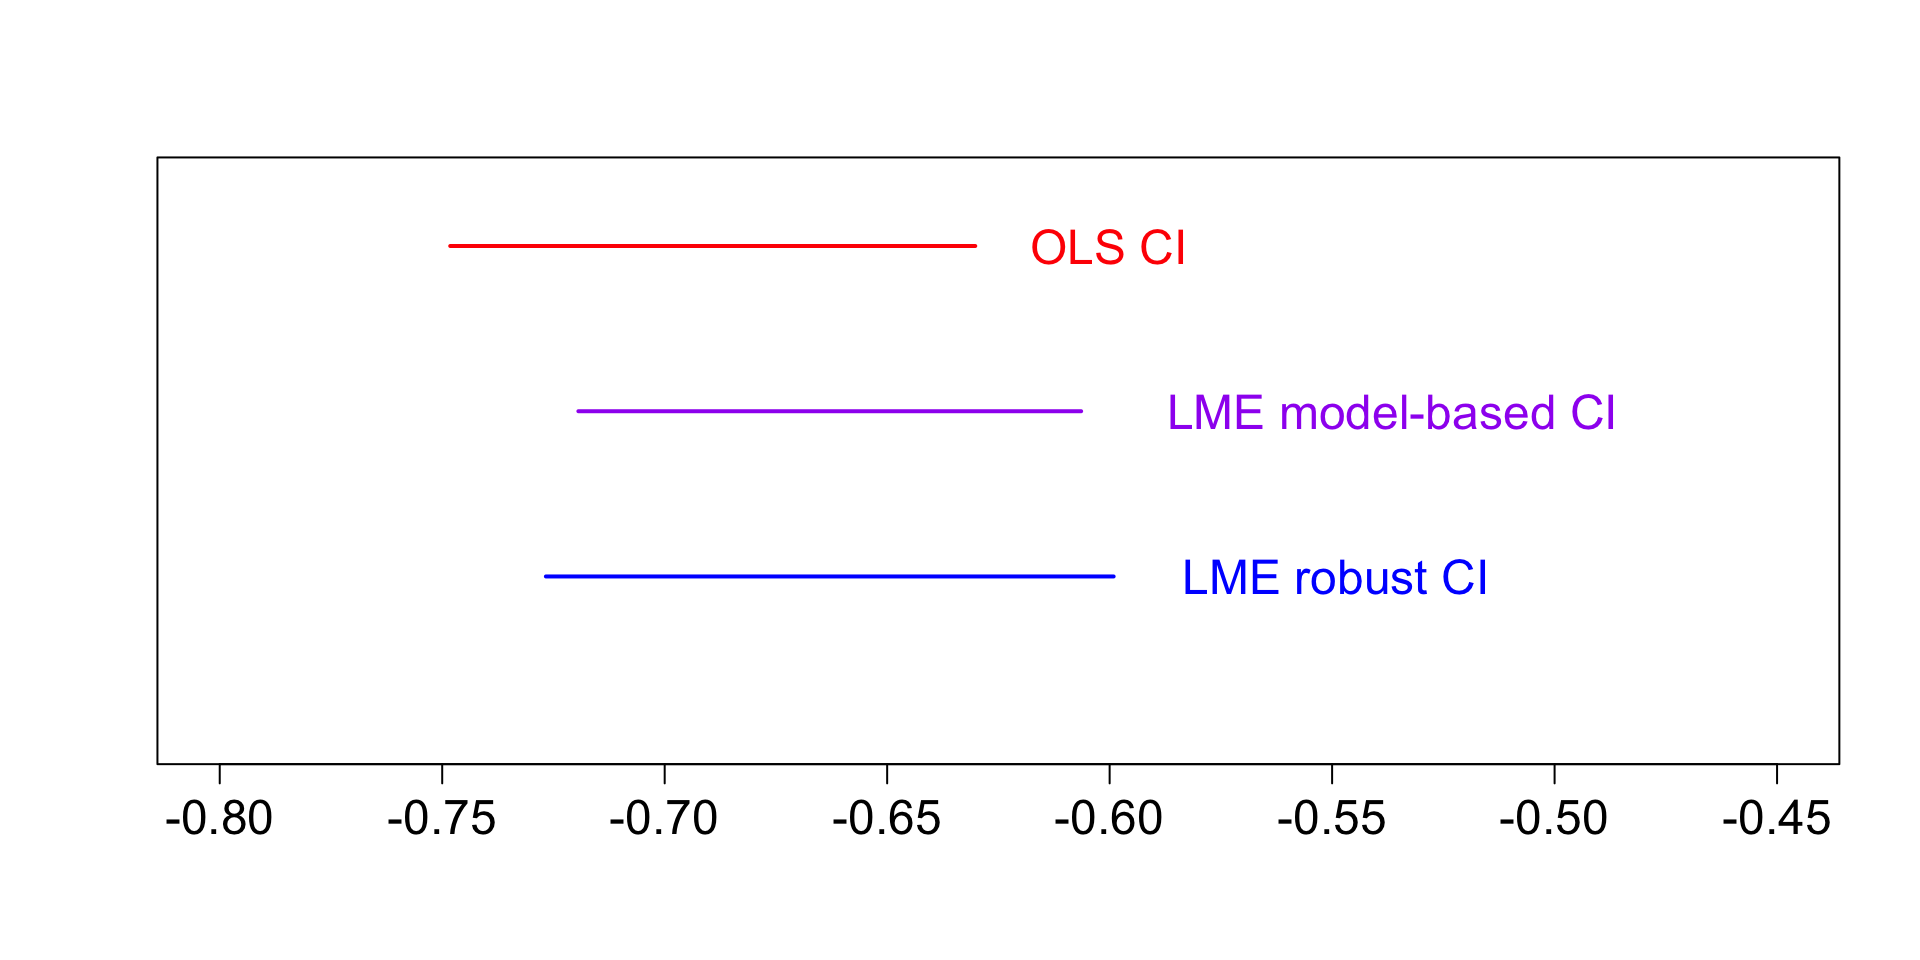
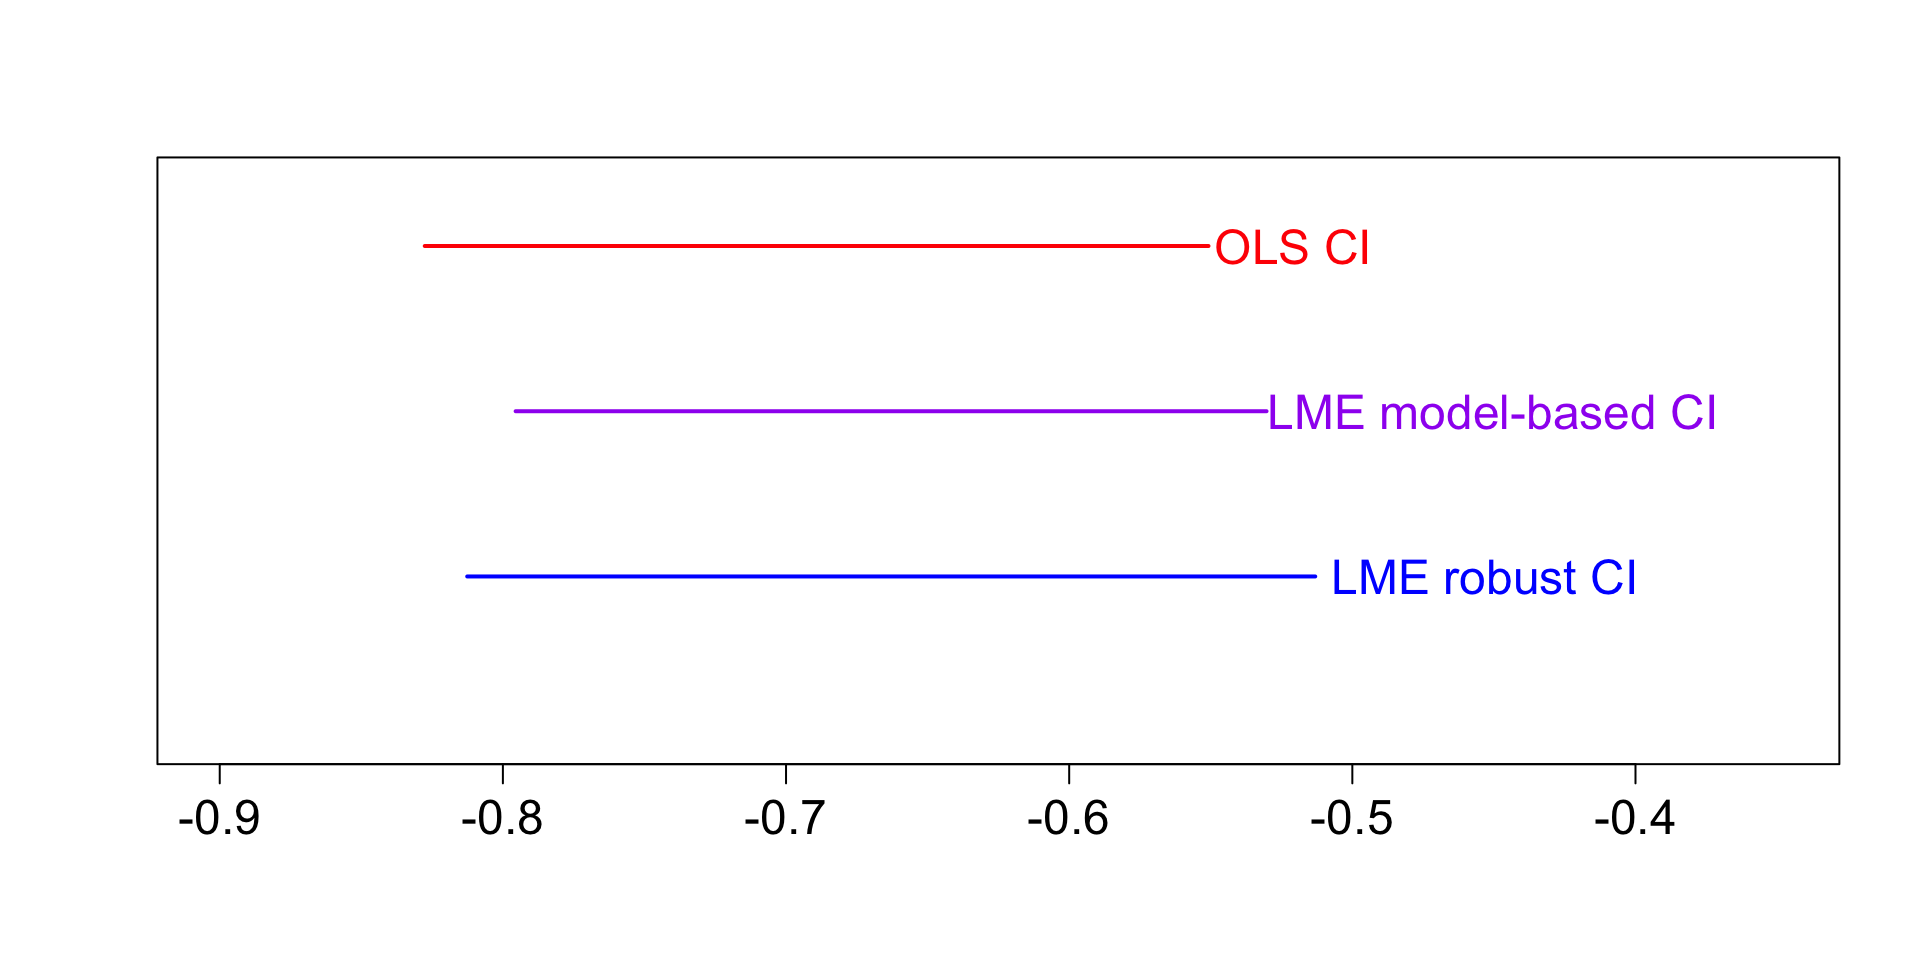
fixed CI code type in lec 2

diff --git a/PHS-651-2/slides-2.html b/PHS-651-2/slides-2.html
@@ -836,7 +836,7 @@ floor -0.288</code></pre>
 <li>
 <p>LME <span class="math inline">\(\beta_1\)</span>: -0.6629</p>
 <ul>
-<li><p>Model-based 95% CI: (-0.7194, -0.6064)</p></li>
+<li><p>Model-based 95% CI: (-0.7955, -0.5303)</p></li>
 <li><p>How would we interpret this?</p></li>
 </ul>
 </li>
@@ -845,7 +845,7 @@ floor -0.288</code></pre>
 </section><section id="example-radon-measurements-in-minnesota-2" class="slide level2"><h2>Example: radon measurements in Minnesota</h2>
 <p>Let’s compare the model-based confidence intervals</p>
 <ul>
-<li>Model-based 95% CI: (-0.7194, -0.6064)</li>
+<li>Model-based 95% CI: (-0.7955, -0.5303)</li>
 </ul>
 <p>to the robust CIs:</p>
 <div class="cell">
@@ -854,10 +854,10 @@ floor -0.288</code></pre>
 <span id="cb3-3"><a href="#cb3-3"></a><span class="co"># get the sandwich-based covariance matrix #</span></span>
 <span id="cb3-4"><a href="#cb3-4"></a>var_sand <span class="ot">&lt;-</span> <span class="fu">vcovCR</span>(radon_lme, <span class="at">type=</span><span class="st">"CR0"</span>)</span>
 <span id="cb3-5"><a href="#cb3-5"></a></span>
-<span id="cb3-6"><a href="#cb3-6"></a><span class="fu">paste0</span>( <span class="st">"("</span>,<span class="fu">round</span>(<span class="fu">summary</span>(radon_lme)<span class="sc">$</span>coef[<span class="dv">2</span>,<span class="dv">1</span>] <span class="sc">-</span> <span class="fu">sqrt</span>(var_sand[<span class="dv">2</span>,<span class="dv">2</span>])<span class="sc">*</span><span class="fu">pnorm</span>(<span class="fl">0.975</span>), <span class="dv">4</span>), <span class="st">", "</span></span>
-<span id="cb3-7"><a href="#cb3-7"></a>        , <span class="fu">round</span>(<span class="fu">summary</span>(radon_lme)<span class="sc">$</span>coef[<span class="dv">2</span>,<span class="dv">1</span>] <span class="sc">+</span> <span class="fu">sqrt</span>(var_sand[<span class="dv">2</span>,<span class="dv">2</span>])<span class="sc">*</span><span class="fu">pnorm</span>(<span class="fl">0.975</span>), <span class="dv">4</span>),<span class="st">")"</span>)</span></code><button title="Copy to Clipboard" class="code-copy-button"><i class="bi"></i></button></pre></div>
+<span id="cb3-6"><a href="#cb3-6"></a><span class="fu">paste0</span>( <span class="st">"("</span>,<span class="fu">round</span>(<span class="fu">summary</span>(radon_lme)<span class="sc">$</span>coef[<span class="dv">2</span>,<span class="dv">1</span>] <span class="sc">-</span> <span class="fu">sqrt</span>(var_sand[<span class="dv">2</span>,<span class="dv">2</span>])<span class="sc">*</span><span class="fu">qnorm</span>(<span class="fl">0.975</span>), <span class="dv">4</span>), <span class="st">", "</span></span>
+<span id="cb3-7"><a href="#cb3-7"></a>        , <span class="fu">round</span>(<span class="fu">summary</span>(radon_lme)<span class="sc">$</span>coef[<span class="dv">2</span>,<span class="dv">1</span>] <span class="sc">+</span> <span class="fu">sqrt</span>(var_sand[<span class="dv">2</span>,<span class="dv">2</span>])<span class="sc">*</span><span class="fu">qnorm</span>(<span class="fl">0.975</span>), <span class="dv">4</span>),<span class="st">")"</span>)</span></code><button title="Copy to Clipboard" class="code-copy-button"><i class="bi"></i></button></pre></div>
 <div class="cell-output cell-output-stdout">
-<pre><code>[1] "(-0.7267, -0.5991)"</code></pre>
+<pre><code>[1] "(-0.8126, -0.5131)"</code></pre>
 </div>
 </div>
 <div class="fragment">
@@ -1004,7 +1004,7 @@ F-statistic: 36.27 on 86 and 833 DF,  p-value: &lt; 2.2e-16</code></pre>
 <li>
 <p>OLS <span class="math inline">\(\beta_1\)</span>: -0.6892</p>
 <ul>
-<li>95% CI: (-0.7482, -0.6302)</li>
+<li>95% CI: (-0.8276, -0.5508)</li>
 </ul>
 </li>
 </ul>
@@ -1015,8 +1015,8 @@ F-statistic: 36.27 on 86 and 833 DF,  p-value: &lt; 2.2e-16</code></pre>
 <li>
 <p>LME <span class="math inline">\(\beta_1\)</span>: -0.6629</p>
 <ul>
-<li><p>Model-based 95% CI: (-0.7194, -0.6064)</p></li>
-<li><p>Robust 95% CI: (-0.7267, -0.5991)</p></li>
+<li><p>Model-based 95% CI: (-0.7955, -0.5303)</p></li>
+<li><p>Robust 95% CI: (-0.8126, -0.5131)</p></li>
 </ul>
 </li>
 </ul>
